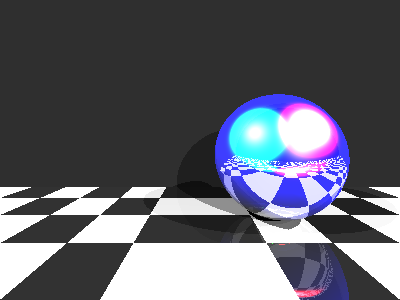
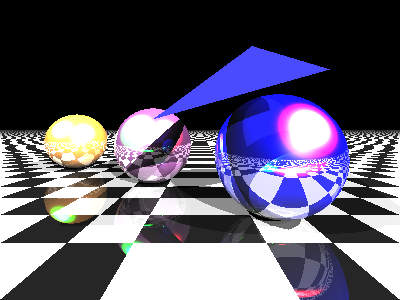
Ya nos pinta el triangulo, faltan las luces

diff --git a/raytracing.py b/raytracing.py
@@ -28,22 +28,33 @@ import matplotlib.pyplot as plt
 w = 400
 h = 300
 
+#el producto vectorial de dos vectores es un tercer vector perpendicular
+
 def normalize(x):
     x /= np.linalg.norm(x)
     return x
 
-def sign (p1, p2, p3):
-    return (p1[0] - p3[0]) * (p2[1] - p2[1]) - (p2[0] - p3[0]) * (p1[1] - p3[1]);
+def is_point_on_triangle(p, v0, v1, v2):
+    v0v1 = [v1[0] - v0[0], v1[1] - v0[1], v1[2] - v0[2]]
+    v1v2 = [v2[0] - v1[0], v2[1] - v1[1], v2[2] - v1[2]]
+    v2v0 = [v0[0] - v2[0], v0[1] - v0[1], v0[2] - v2[2]]
 
-def is_point_on_triangle(point, v1, v2, v3):
-    d1 = sign(point, v1, v2);
-    d2 = sign(point, v2, v3);
-    d3 = sign(point, v3, v1);
+    v0p = [p[0] - v0[0], p[1] - v0[1], p[2] - v0[2]]
+    v1p = [p[0] - v1[0], p[1] - v1[1], p[2] - v1[2]]
+    v2p = [p[0] - v2[0], p[1] - v2[1], p[2] - v2[2]]
 
-    has_neg = (d1 < 0) or (d2 < 0) or (d3 < 0);
-    has_pos = (d1 > 0) or (d2 > 0) or (d3 > 0);
+    res1 = np.dot(v0v1, v0p) > 0
+    res2 = np.dot(v1v2, v1p) > 0
+    res3 = np.dot(v2v0, v2p) > 0
 
-    return not(has_neg and has_pos);
+    return res1 and res2 and res3
+
+def get_point_intersection_ray_plane(rayPoint, rayDirection, planePoint, planeNormal):
+    ndotu = planeNormal.dot(rayDirection)
+
+    w = rayPoint - planePoint
+    si = -planeNormal.dot(w) / ndotu
+    return w + si * rayDirection + planePoint
 
 def intersect_plane(O, D, P, N):
     # Return the distance from O to the intersection of the ray (O, D) with the 
@@ -57,16 +68,19 @@ def intersect_plane(O, D, P, N):
         return np.inf
     return d
 
-def intersect_triangle(O, D, P, N, v1, v2, v3):
+def intersect_triangle(O, D, V1, V2, V3, TN):
     # Return the distance from O to the intersection of the ray (O, D) with the
-    # plane (P, N), or +inf if there is no intersection.
+    # triangle (v1, v2, v3), or +inf if there is no intersection.
     # O and P are 3D points, D and N (normal) are normalized vectors.
-    denom = np.dot(D, N)
+    denom = np.dot(D, TN)
     if np.abs(denom) < 1e-6:
         return np.inf
-    d = np.dot(P - O, N) / denom
-    isIn = True #is_point_on_triangle(P - O, v1, v2, v3)
-    if (d < 0) or (not isIn):
+    d = np.dot(V1 - O, TN) / denom
+    if (d < 0):
+        return np.inf
+    intersection = get_point_intersection_ray_plane(O, D, V1, TN)
+    is_in = is_point_on_triangle(intersection, V1, V2, V3)
+    if not is_in:
         return np.inf
     return d
 
@@ -97,7 +111,7 @@ def intersect(O, D, obj):
     elif obj['type'] == 'sphere':
         return intersect_sphere(O, D, obj['position'], obj['radius'])
     elif (obj['type']) == 'triangle':
-        return intersect_triangle(O, D, obj['position'], obj['normal'], obj['v1'], obj['v2'], obj['v3'])
+        return intersect_triangle(O, D, obj['v1'], obj['v2'], obj['v3'], obj['normal'])
 
 def get_normal(obj, M):
     # Find normal.
@@ -155,15 +169,18 @@ def add_sphere(position, radius, color):
                 radius=np.array(radius), color=np.array(color), reflection=.5)
 
 
-def add_triangle(position, normal, v1, v2, v3, color):
+def add_triangle(v1, v2, v3, color):
+    vector_1 = [v2[0] - v1[0], v2[1] - v1[1], v2[2] - v1[2]]
+    vector_2 = [v3[0] - v1[0], v3[1] - v1[1], v3[2] - v1[2]]
+    n = np.cross(vector_1, vector_2)
+
     return dict(type='triangle',
-                position=np.array(position),
-                normal=np.array(normal),
                 v1 = v1,
                 v2 = v2,
                 v3 = v3,
+                normal = n,
                 color=np.array(color),
-                diffuse_c=.75, specular_c=.5, reflection=.25)
+                diffuse_c=.75, specular_c=.75, reflection=.5)
 
 
 def add_plane(position, normal):
@@ -201,11 +218,10 @@ color_plane0 = 1. * np.ones(3)
 color_plane1 = 0. * np.ones(3)
 scene = [
          add_sphere([.75, .1, 1.], .6, [0., 0., 1.]),
-#         add_sphere([-.75, .1, 2.25], .6, [.5, .223, .5]),
-#         add_sphere([-2.75, .1, 3.5], .6, [1., .572, .184]),
+         add_sphere([-.75, .1, 2.25], .6, [.5, .223, .5]),
+         add_sphere([-2.75, .1, 3.5], .6, [1., .572, .184]),
          add_plane([0., -.5, 0.], [0., 1., 0.]),
-         #add_plane([0., 0., 2.], [0., 0., 1.]),
-         add_triangle([0., 0. , 2.], [0., 0., 1.], [.0, .0,  2], [.1, .1,  2], [.1, .0,  2], [.5, .223, .5])
+         add_triangle([0, .5, .25], [0, .75, .75], [.75, .75, .25], [0., 0., 1.])
          ]
 
 # Light position and color.

diff --git a/plane.py b/plane.py
@@ -2,12 +2,14 @@ import numpy as np
 import matplotlib.pyplot as plt
 from mpl_toolkits.mplot3d import Axes3D
 
-point  = np.array([0, 0, 2])
-normal = np.array([0, 0, 1])
+point  = np.array([0, -.5, 2])
+normal = np.array([0, 4, 0])
 
-point1  = np.array([0, 0, 2])
-point2  = np.array([1, 1, 2])
-point3  = np.array([1, 0, 2])
+point1  = np.array([0, -.5, 2])
+point2  = np.array([2, -.5, 0])
+point3  = np.array([0, -.5, 0])
+
+point4  = np.array([-1, -.5, 0])
 
 # a plane is a*x+b*y+c*z+d=0
 # [a,b,c] is the normal. Thus, we have to calculate
@@ -15,18 +17,19 @@ point3  = np.array([1, 0, 2])
 d = -point.dot(normal)
 
 # create x,z
-xx, yy = np.meshgrid(range(10), range(10))
+xx, zz = np.meshgrid(range(10), range(10))
 
 # calculate corresponding y
-z = (-normal[0] * xx - normal[1] * yy - d) * 1. /normal[2]
+y = (-normal[0] * xx - normal[2] * zz - d) * 1. /normal[1]
 
 # plot the surface
 plt3d = plt.figure().gca(projection='3d')
-plt3d.plot_surface(xx, yy, z)
+plt3d.plot_surface(xx, y, zz)
 
 plt3d.plot([point1[0]], [point1[1]], [point1[2]], color='yellow', marker='o', markersize=10, alpha=0.8);
-plt3d.plot([point2[0]], [point2[1]], [point2[2]], color='red', marker='o', markersize=10, alpha=0.8);
-plt3d.plot([point3[0]], [point3[1]], [point3[2]], color='red', marker='o', markersize=10, alpha=0.8);
+plt3d.plot([point2[0]], [point2[1]], [point2[2]], color='yellow', marker='o', markersize=10, alpha=0.8);
+plt3d.plot([point3[0]], [point3[1]], [point3[2]], color='yellow', marker='o', markersize=10, alpha=0.8);
 
+plt3d.plot([point4[0]], [point4[1]], [point4[2]], color='red', marker='o', markersize=10, alpha=0.8);
 
 plt.show()
